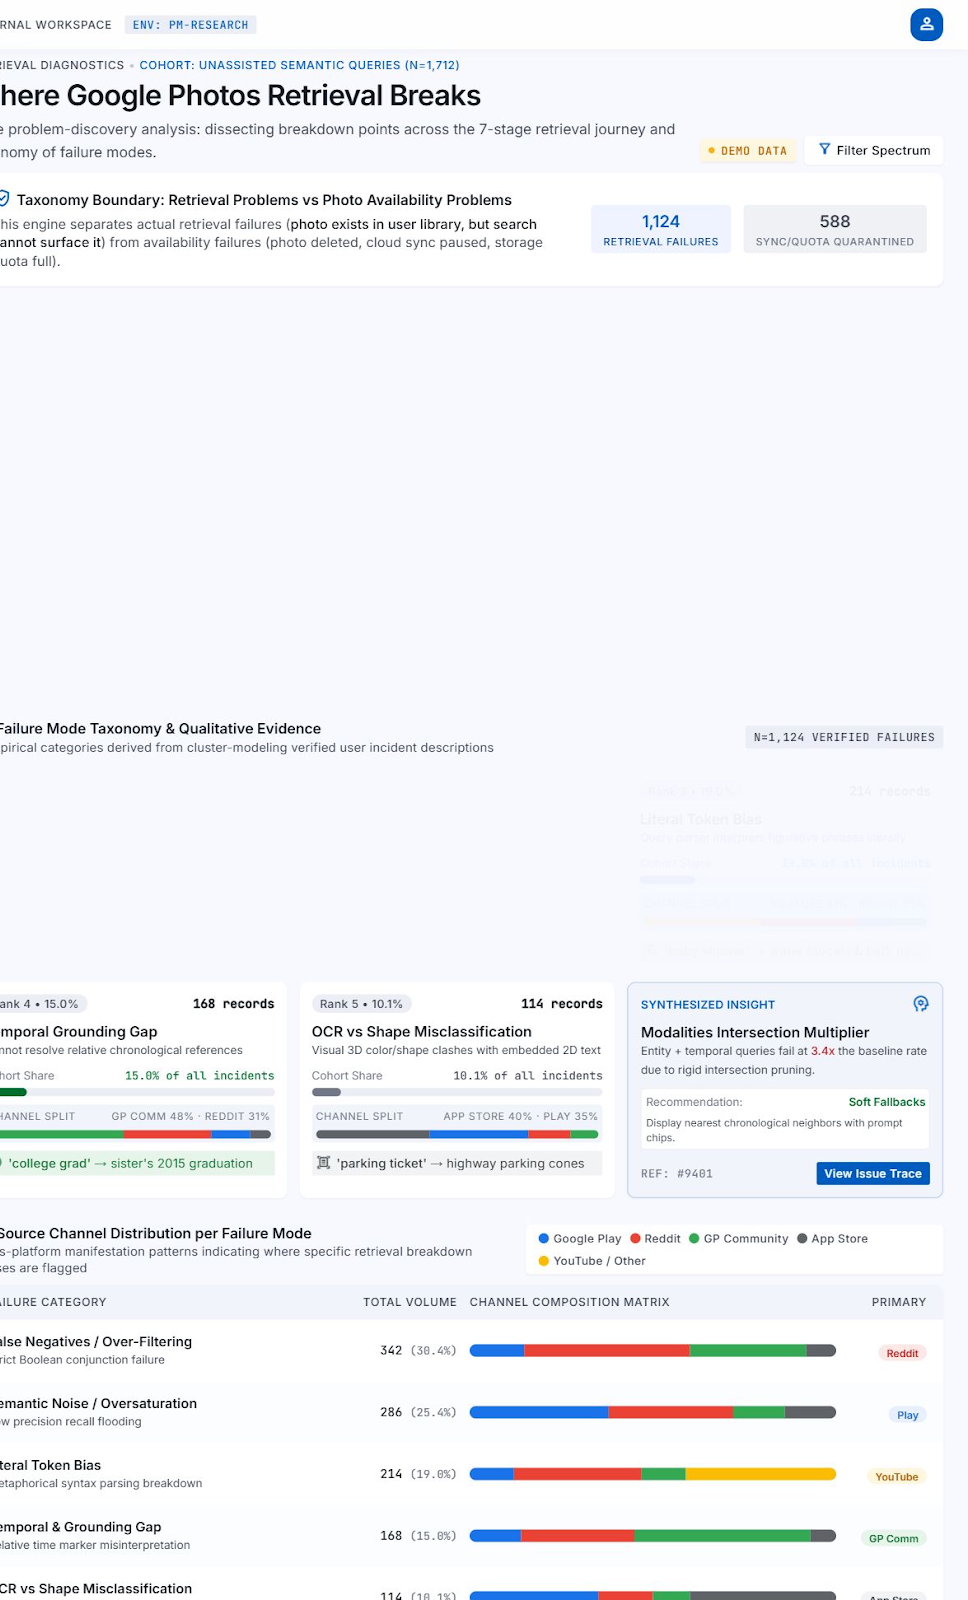
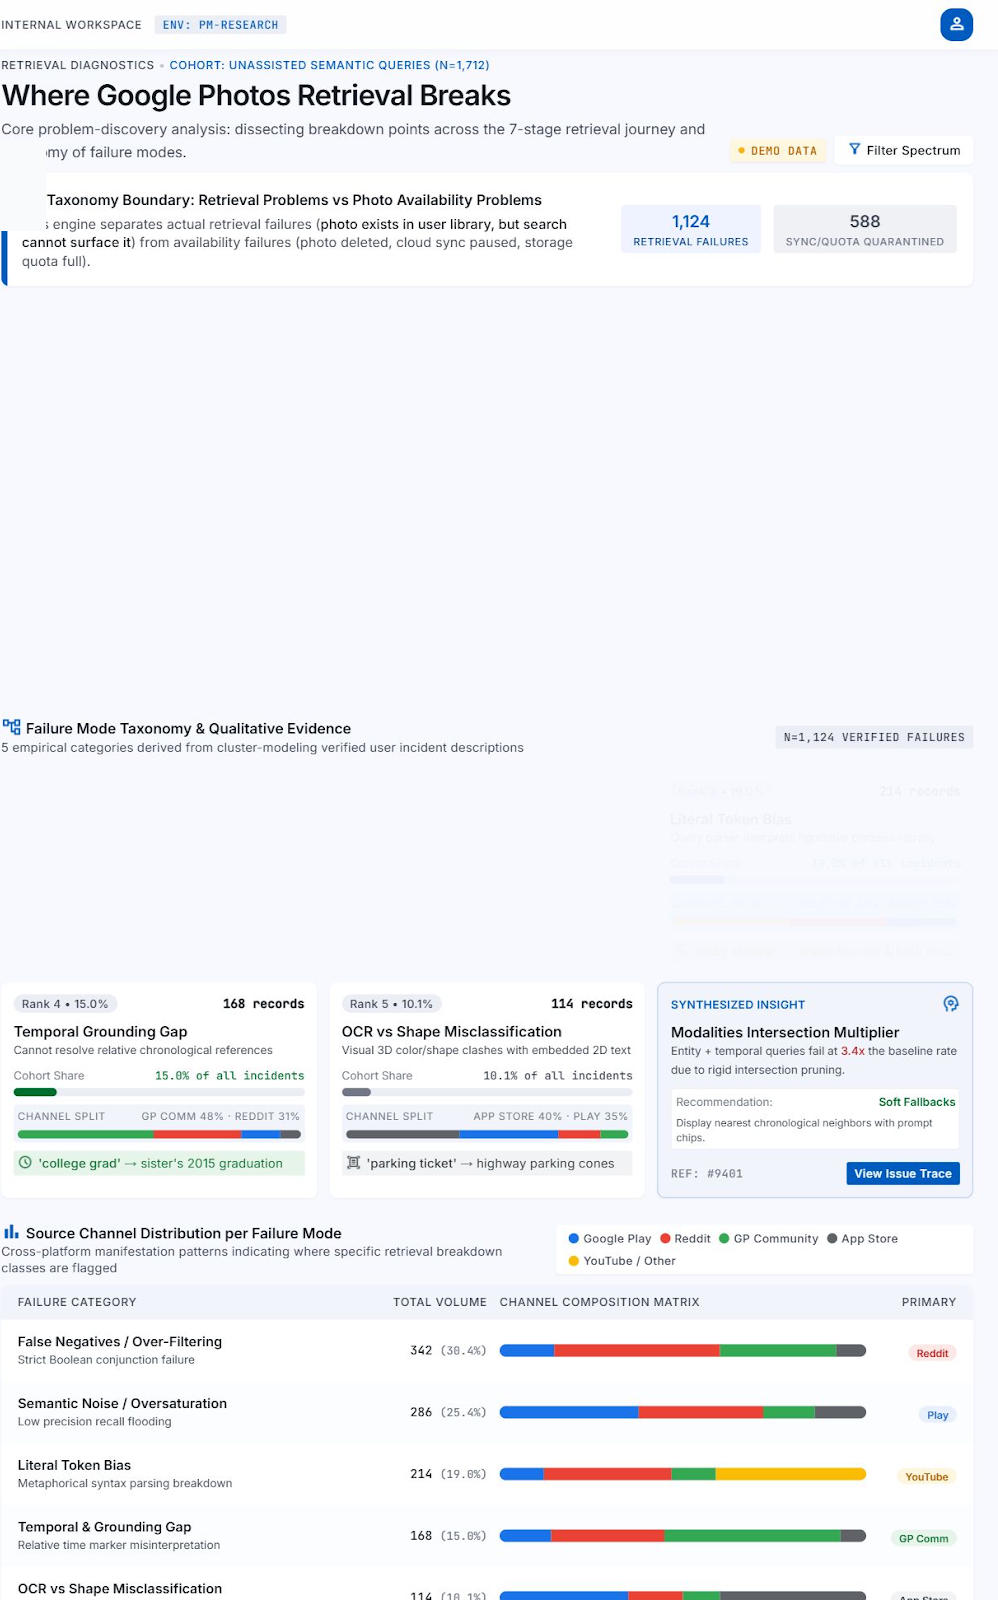
Fix retrieval failures image crop and mask blue button

diff --git a/crop_images.py b/crop_images.py
@@ -1,5 +1,5 @@
 """Pre-crop all Stitch images for the Vercel static dashboard."""
-from PIL import Image
+from PIL import Image, ImageDraw
 import os
 
 stitch_dir = "stitch_google_photos_retrieval_discovery_engine/stitch_google_photos_retrieval_discovery_engine"
@@ -10,7 +10,7 @@ crops = {
     "dataset": ("google_photos_research_dataset", 370),
     "feedback": ("google_photos_user_feedback", 180),
     "behavior": ("google_photos_search_behavior", 178),
-    "failures": ("where_google_photos_retrieval_breaks", 350),
+    "failures": ("where_google_photos_retrieval_breaks", 320), # Changed to 320 to preserve text
     "opportunities": ("evidence_product_opportunities", 395),
 }
 
@@ -19,6 +19,14 @@ for name, (folder, crop_left) in crops.items():
     img = Image.open(img_path)
     w, h = img.size
     cropped = img.crop((crop_left, 0, w, h))
+    
+    # Apply specific masks to erase protruding sidebar elements
+    if name == "failures":
+        draw = ImageDraw.Draw(cropped)
+        # Erase the blue 'Retrieval Failures' button that protrudes to x=358 in original (x=38 in cropped)
+        # It's located roughly between y=140 and y=220
+        draw.rectangle([(0, 140), (45, 230)], fill=(248, 250, 252)) # Match background color
+        
     out_path = os.path.join(out_dir, f"{name}.png")
     cropped.save(out_path, optimize=True)
     print(f"Saved {out_path}: {cropped.width}x{cropped.height}")
